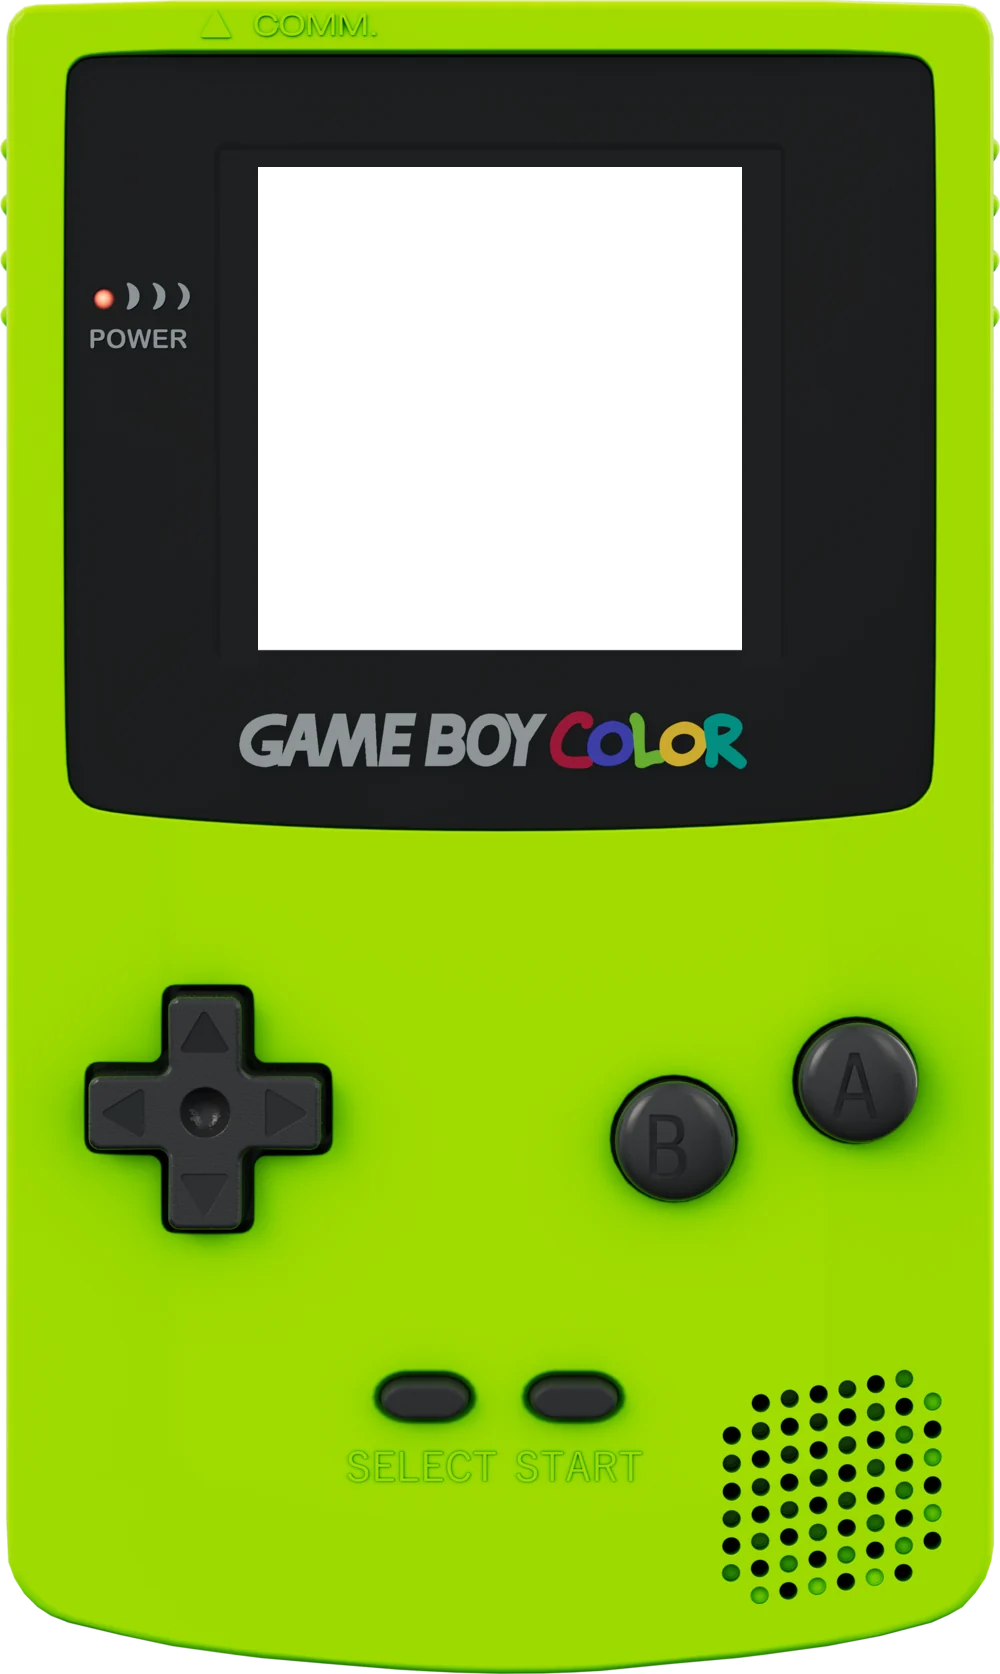
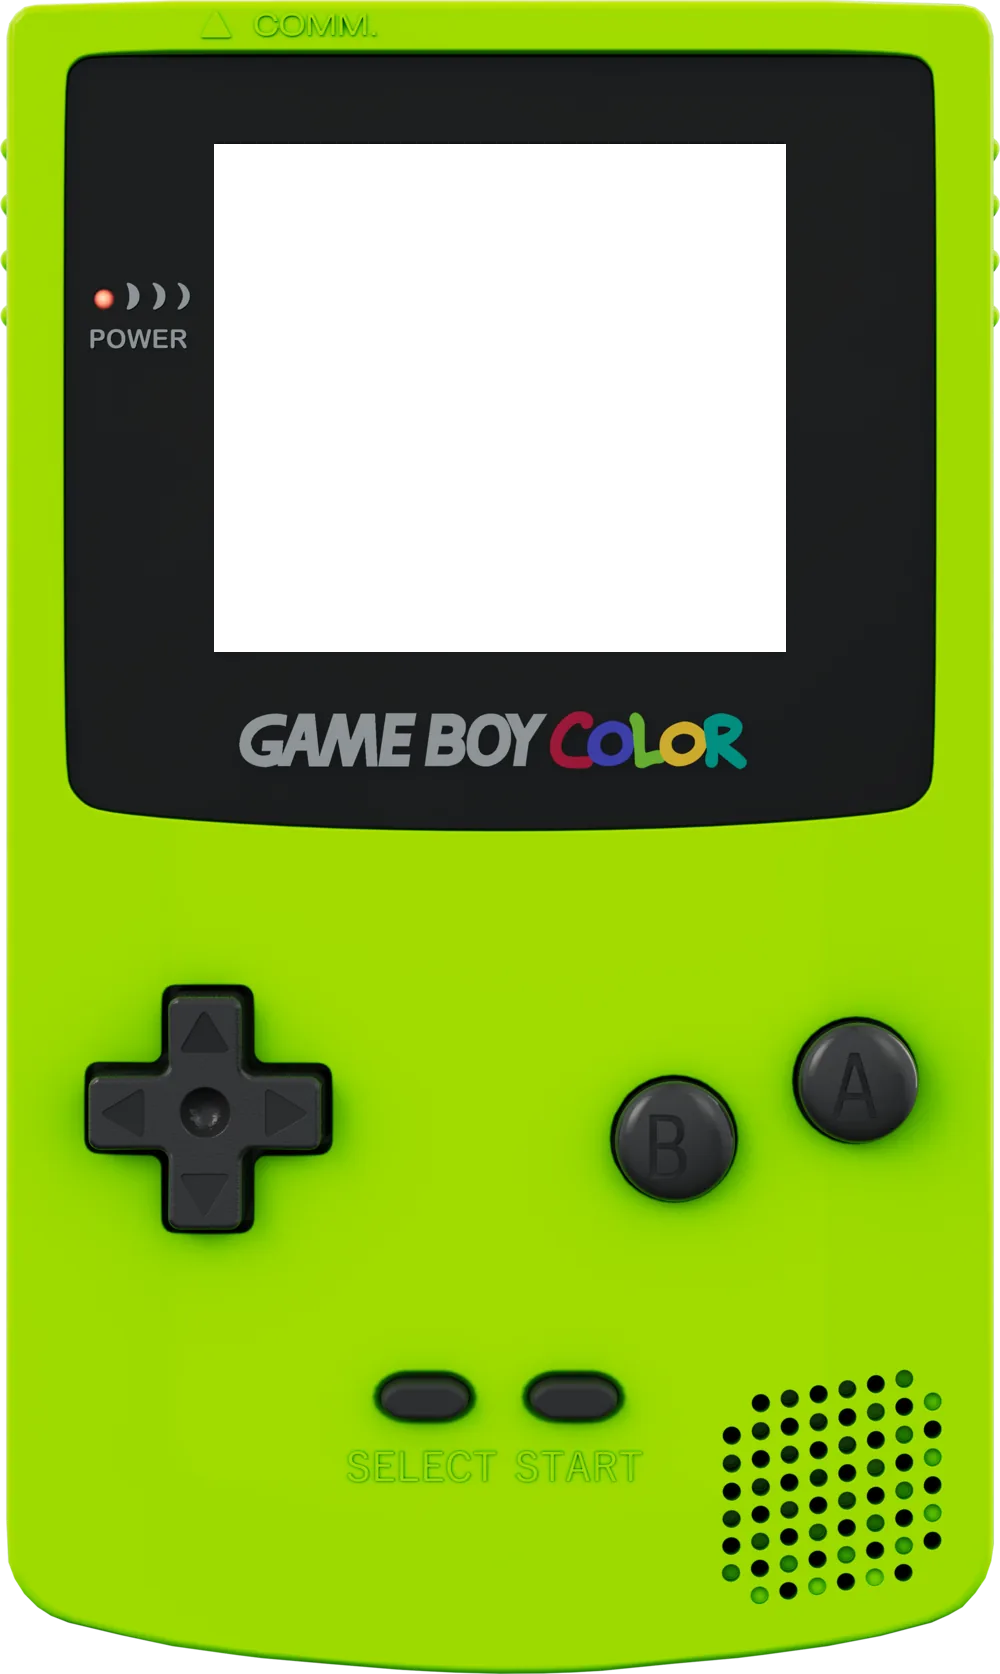
fix(projects): the game fills the Game Boy Color screen's height, pressed with A
The screen opens up to its whole recess, 572 × 508 on the picture: the square
game takes its height between two black bands. Start is cut off the band, so
the title says Press A.

Changed region(s): [[0.217, 0.0621, 0.806, 0.4038]]

diff --git a/src/projects/cinetropes-game.css b/src/projects/cinetropes-game.css
@@ -94,7 +94,8 @@
 }
 
 /* The console: the photographed Game Boy Color, its screen and buttons placed on its 1000×1675
-   picture, its screen made square for the game's 192 × 192 */
+   picture. Its screen is opened up to its whole recess, 572 × 508, and the square game stands in
+   its height between two black bands */
 
 .cg__console {
   position: relative;
@@ -119,18 +120,20 @@
 
 .cg__screen {
   position: absolute;
-  left: 25.8%;
-  top: 9.97%;
-  width: 48.4%;
-  height: 28.9%;
+  left: 21.4%;
+  top: 8.6%;
+  width: 57.2%;
+  height: 30.33%;
+  display: flex;
+  justify-content: center;
   background-color: #000;
 }
 
 .cg__canvas,
 .cg__game {
   display: block;
-  width: 100%;
   height: 100%;
+  aspect-ratio: 1;
   border: 0;
   image-rendering: pixelated;
 }

diff --git a/src/projects/CinetropesGame.jsx b/src/projects/CinetropesGame.jsx
@@ -416,7 +416,7 @@ export const CinetropesGame = () => {
             <>
               {near && <Slides cinema={cinema.id} slide={slide} running={visible} reduced={reduced} label={`${cinema.name}, ${SLIDES[slide].label}`} />}
               <button type='button' className='cg__press' onClick={start}>
-                <span>{hasGame ? 'Press start to continue' : 'Press start'}</span>
+                <span>{hasGame ? 'Press A to continue' : 'Press A'}</span>
               </button>
             </>
           )}
